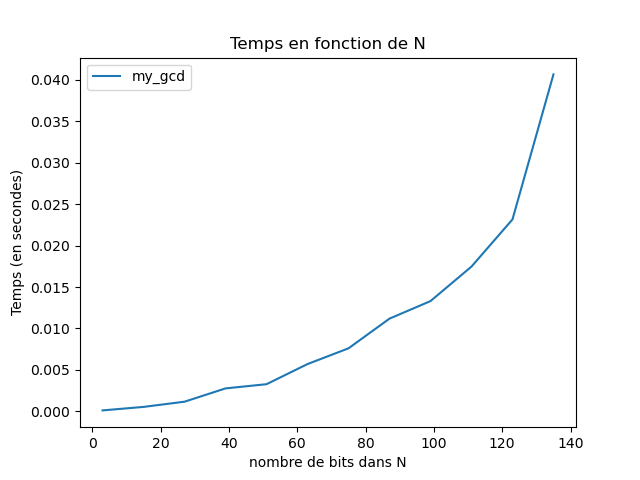
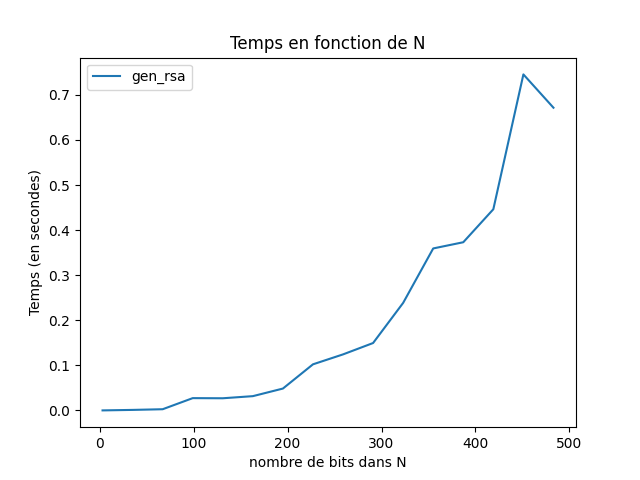
added gen_carmichael_3_list

diff --git a/src/experiments.py b/src/experiments.py
@@ -277,7 +277,7 @@ def estimate_proba_test_rabin(n, maxSize=100000):
     plt.title("probabilité d'erreur en fonction de T du test de Miller Rabin")
 
     # if mode == 0:
-    carmichael_list = gen_carmichael(maxSize)
+    carmichael_list = gen_carmichael_3_list(3e3, 50)
 
     for mode in range(3):
         
@@ -285,13 +285,13 @@ def estimate_proba_test_rabin(n, maxSize=100000):
         y = []
         
         for T in range(1, 10):
-
+            print("T = ", T)
             error_counter = 0
 
             for i in range(n):
 
                 if mode == 0:
-                    prime = random.choice(carmichael_list)
+                    prime = random.choice(carmichael_list)# int(gen_carmichael3(1e5)) #random.choice(carmichael_list) #int(gen_carmichael3(2e2)) # 
 
                 elif mode == 1:
                     prime = generateRandomCompositeImp(maxSize)
@@ -299,7 +299,6 @@ def estimate_proba_test_rabin(n, maxSize=100000):
                 elif mode == 2:
                     #n impair et supérieur a 2
                     prime = random.randrange(3, maxSize, 2)
-
 
                 mayPrime = test_miller_rabin(prime, T)
 
@@ -316,7 +315,10 @@ def estimate_proba_test_rabin(n, maxSize=100000):
 
         plt.plot(x, y, label=modeLabel[mode])
 
+    import os
+    fp = os.path.abspath("rapport/graphs")
     plt.legend(loc='best')
+    plt.savefig(os.path.join(fp, "miller_rabin_test_T.png"))
     plt.show()
 
     #print(f"{error_counter} erreurs rencontrées sur {n} valeurs, soit une probabilité d'erreur de {round(error_pourcent*100, 3)}% ({round(error_pourcent, 6)})")
@@ -344,7 +346,7 @@ def experiment_gen_rsa(nb_bits_max=128, step_size=2, n_exp=10):
         for exp in range(n_exp):
             mean_exec += timeit(gen_rsa, i)
 
-        drawer.add(name="my_gcd", time=mean_exec/n_exp, size=i)
+        drawer.add(name="gen_rsa", time=mean_exec/n_exp, size=i)
     drawer.draw()
 
 

diff --git a/src/fonctions.py b/src/fonctions.py
@@ -109,13 +109,22 @@ def isCarmichael(n):
     """
     """
     # n'est pas composé
-    if(first_test(n)):
-        return False
-    
+    #if(first_test(n)):
+    #    return False
+    n_divisors = 0
     for i in range(2, n):
         # (i premier avec n => i**(n-1) = 1[n])
-        if (my_gcd(i, n) == 1) and (my_expo_mod(i, n-1, n) != 1):
+        gcd = my_gcd(i, n)
+        if (gcd == 1) and (my_expo_mod(i, n-1, n) != 1):
             return False
+
+        if n%i == 0:
+            n_divisors += 1
+
+    if n_divisors == 0:
+        # n est premier 
+        return False
+    
     return True
 
 
@@ -141,12 +150,33 @@ def gen_carmichael3(N=1e5, n_facteur_max=5):
 
     while True:
         acc = [premiers[np.random.randint(0, len(premiers)-1)] for i in range(nb_facteur)]
-        n = np.prod(acc, dtype=np.int64)
-
+        # n = np.prod(acc, dtype=np.int64)
+        n = 1
+        for a in acc:
+            n*=a
         if isCarmichael_facteurs(n, acc):
             return n
 
-
+def gen_carmichael_3_list(N=1e5, n_elements=10):
+    """
+    int->int
+    """
+    premiers = [i for i in range(3, int(N), 2) if first_test(i)]
+    nb_facteur = 3
+    T = []
+    cpt = 0
+    while cpt < n_elements:
+        acc = [premiers[np.random.randint(0, len(premiers)-1)] for i in range(nb_facteur)]
+        # n = np.prod(acc, dtype=np.int64)
+        n = 1
+        for a in acc:
+            n*=a
+        if isCarmichael_facteurs(n, acc):
+            T.append(n)
+            cpt += 1
+            print(cpt)
+    
+    return T
 def gen_carmichael32(N=1e5, n_facteur_max=5):
     """
     int->int

diff --git a/run.py b/run.py
@@ -87,7 +87,7 @@ def calcul_miller_rabin():
 	return 0
 
 def q4b():
-	estimate_proba_test_rabin(100, maxSize=1000000)
+	estimate_proba_test_rabin(50, maxSize=1000000)
 
 def q4c():
 	# experience_miller_rabin()
@@ -96,7 +96,7 @@ def q4c():
 		estimate_proba_test_primality(50000, test_miller_rabin, mode=i)
 
 def q4d():
-	experiment_gen_rsa(nb_bits_max=140, step_size=12, n_exp=100)
+	experiment_gen_rsa(nb_bits_max=1024, step_size=64, n_exp=10)
 	return 0
 
 def bonus():
